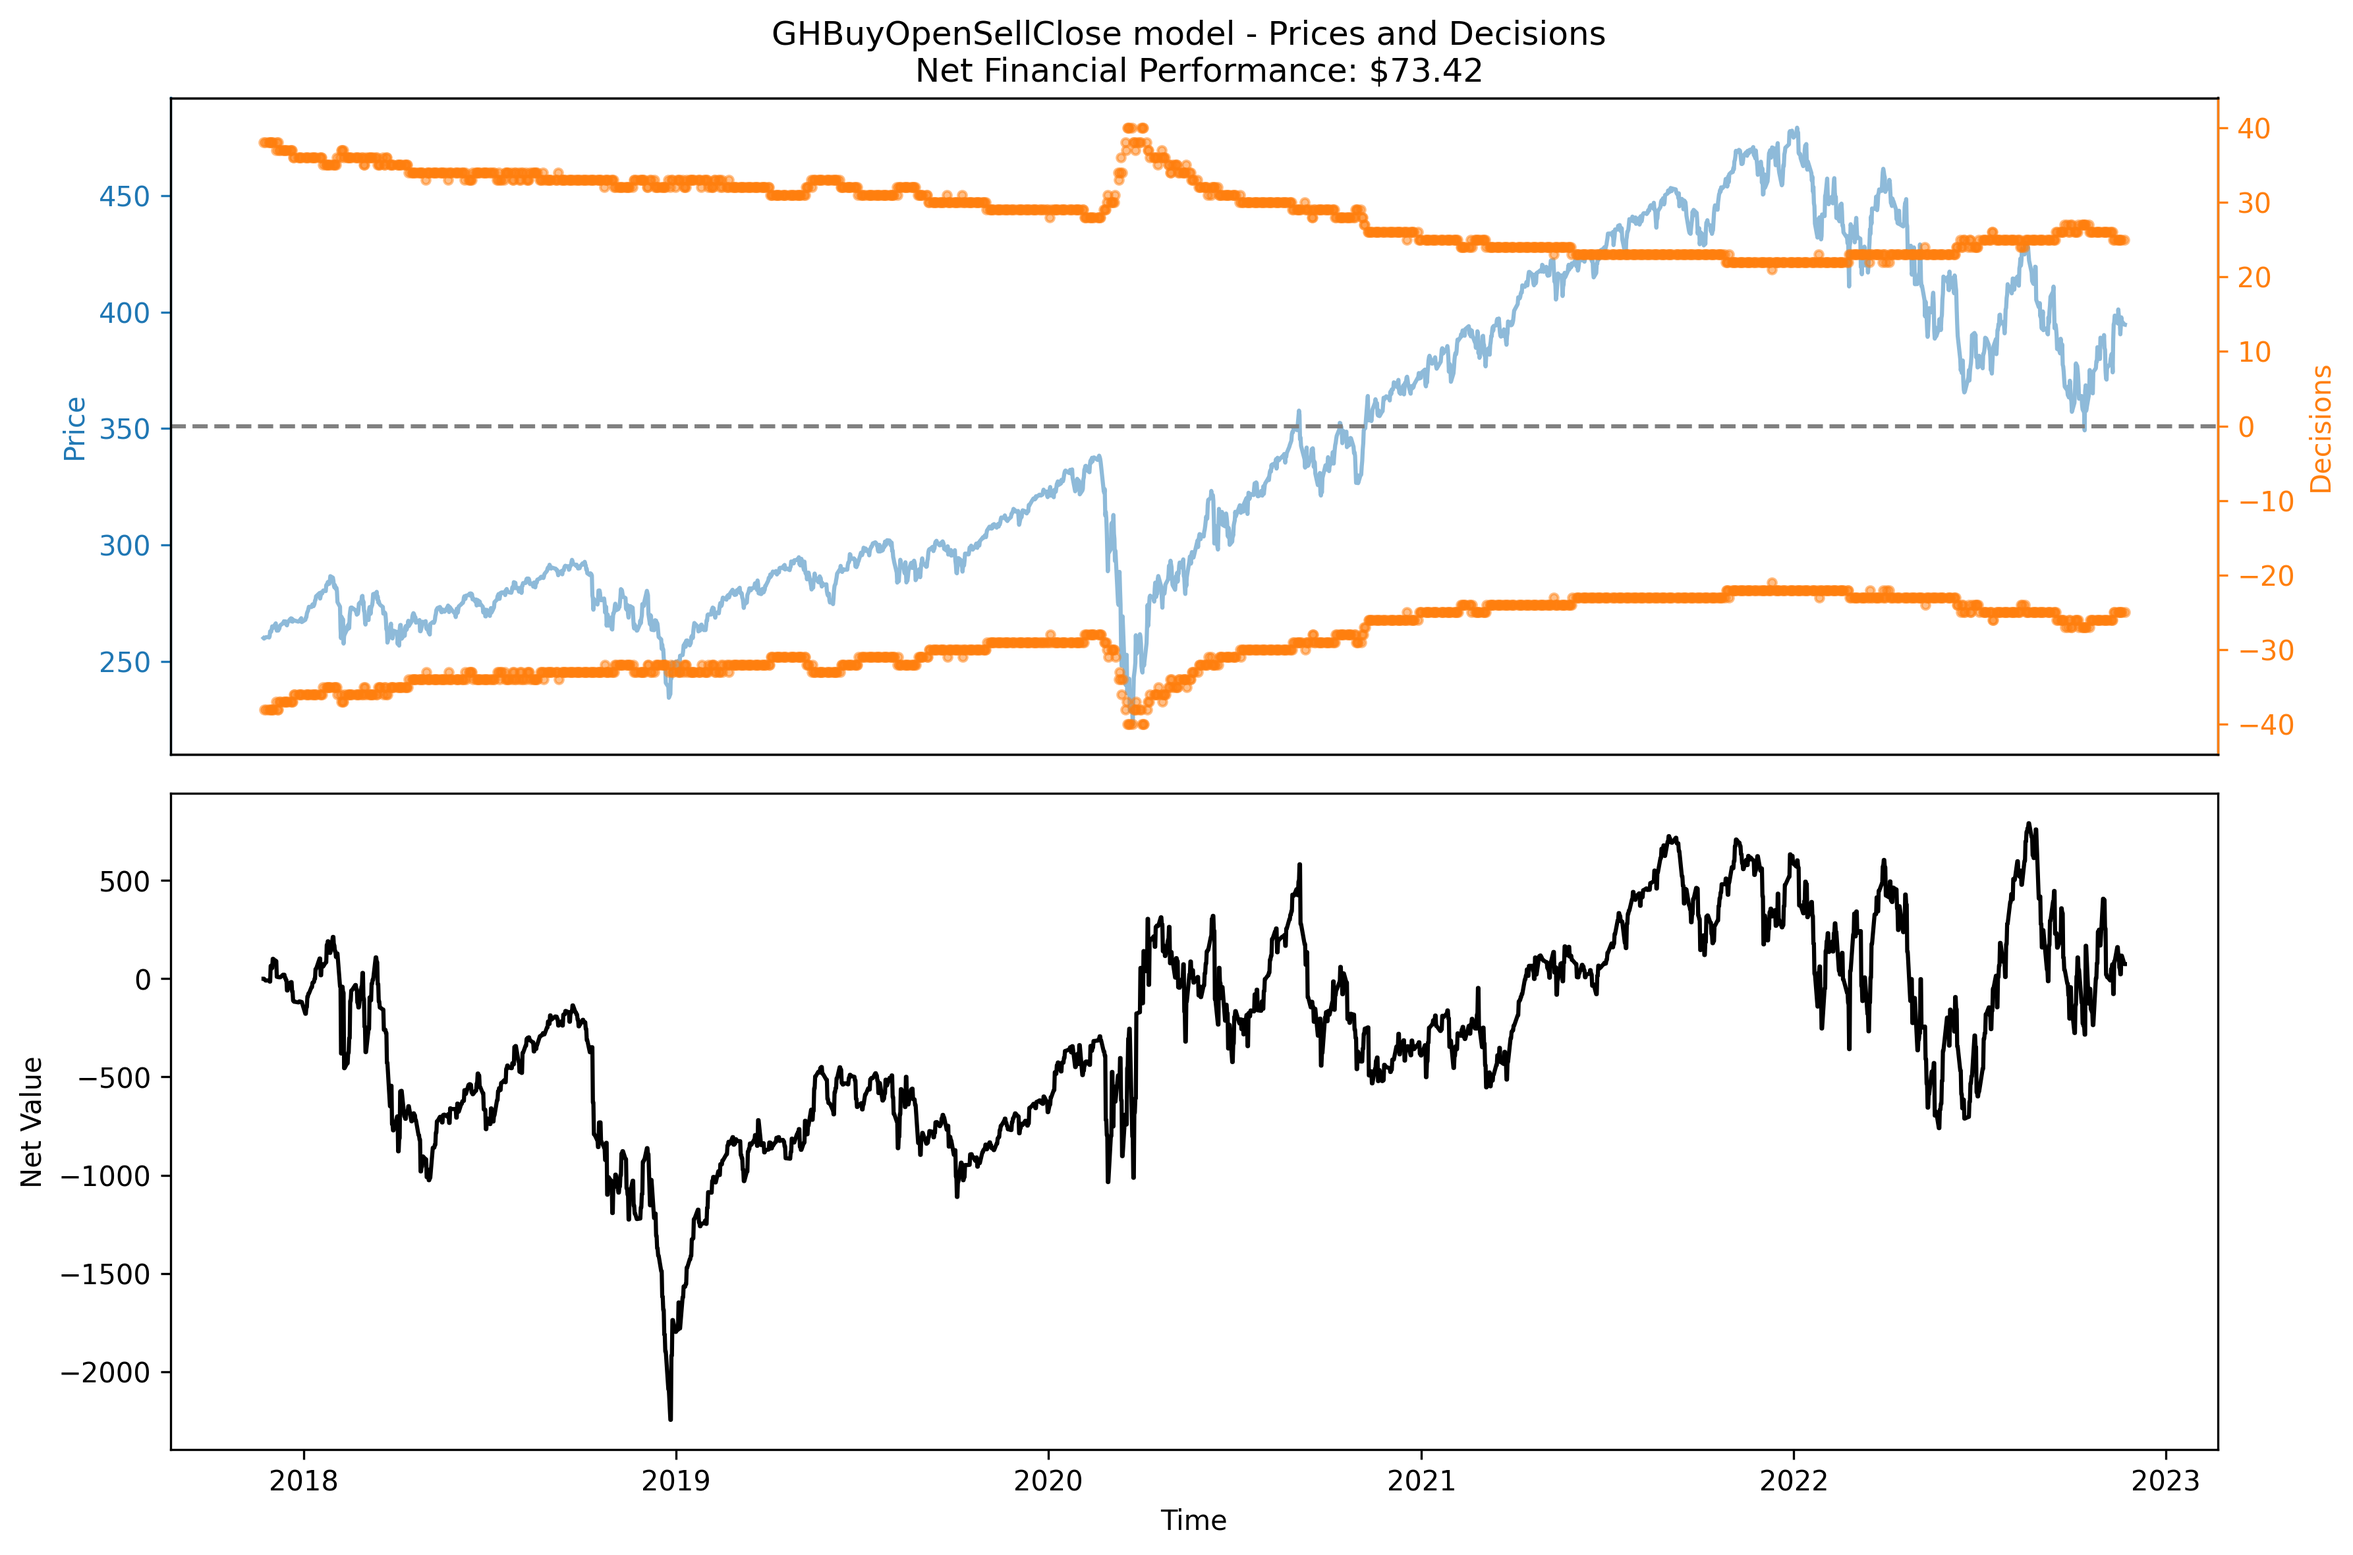
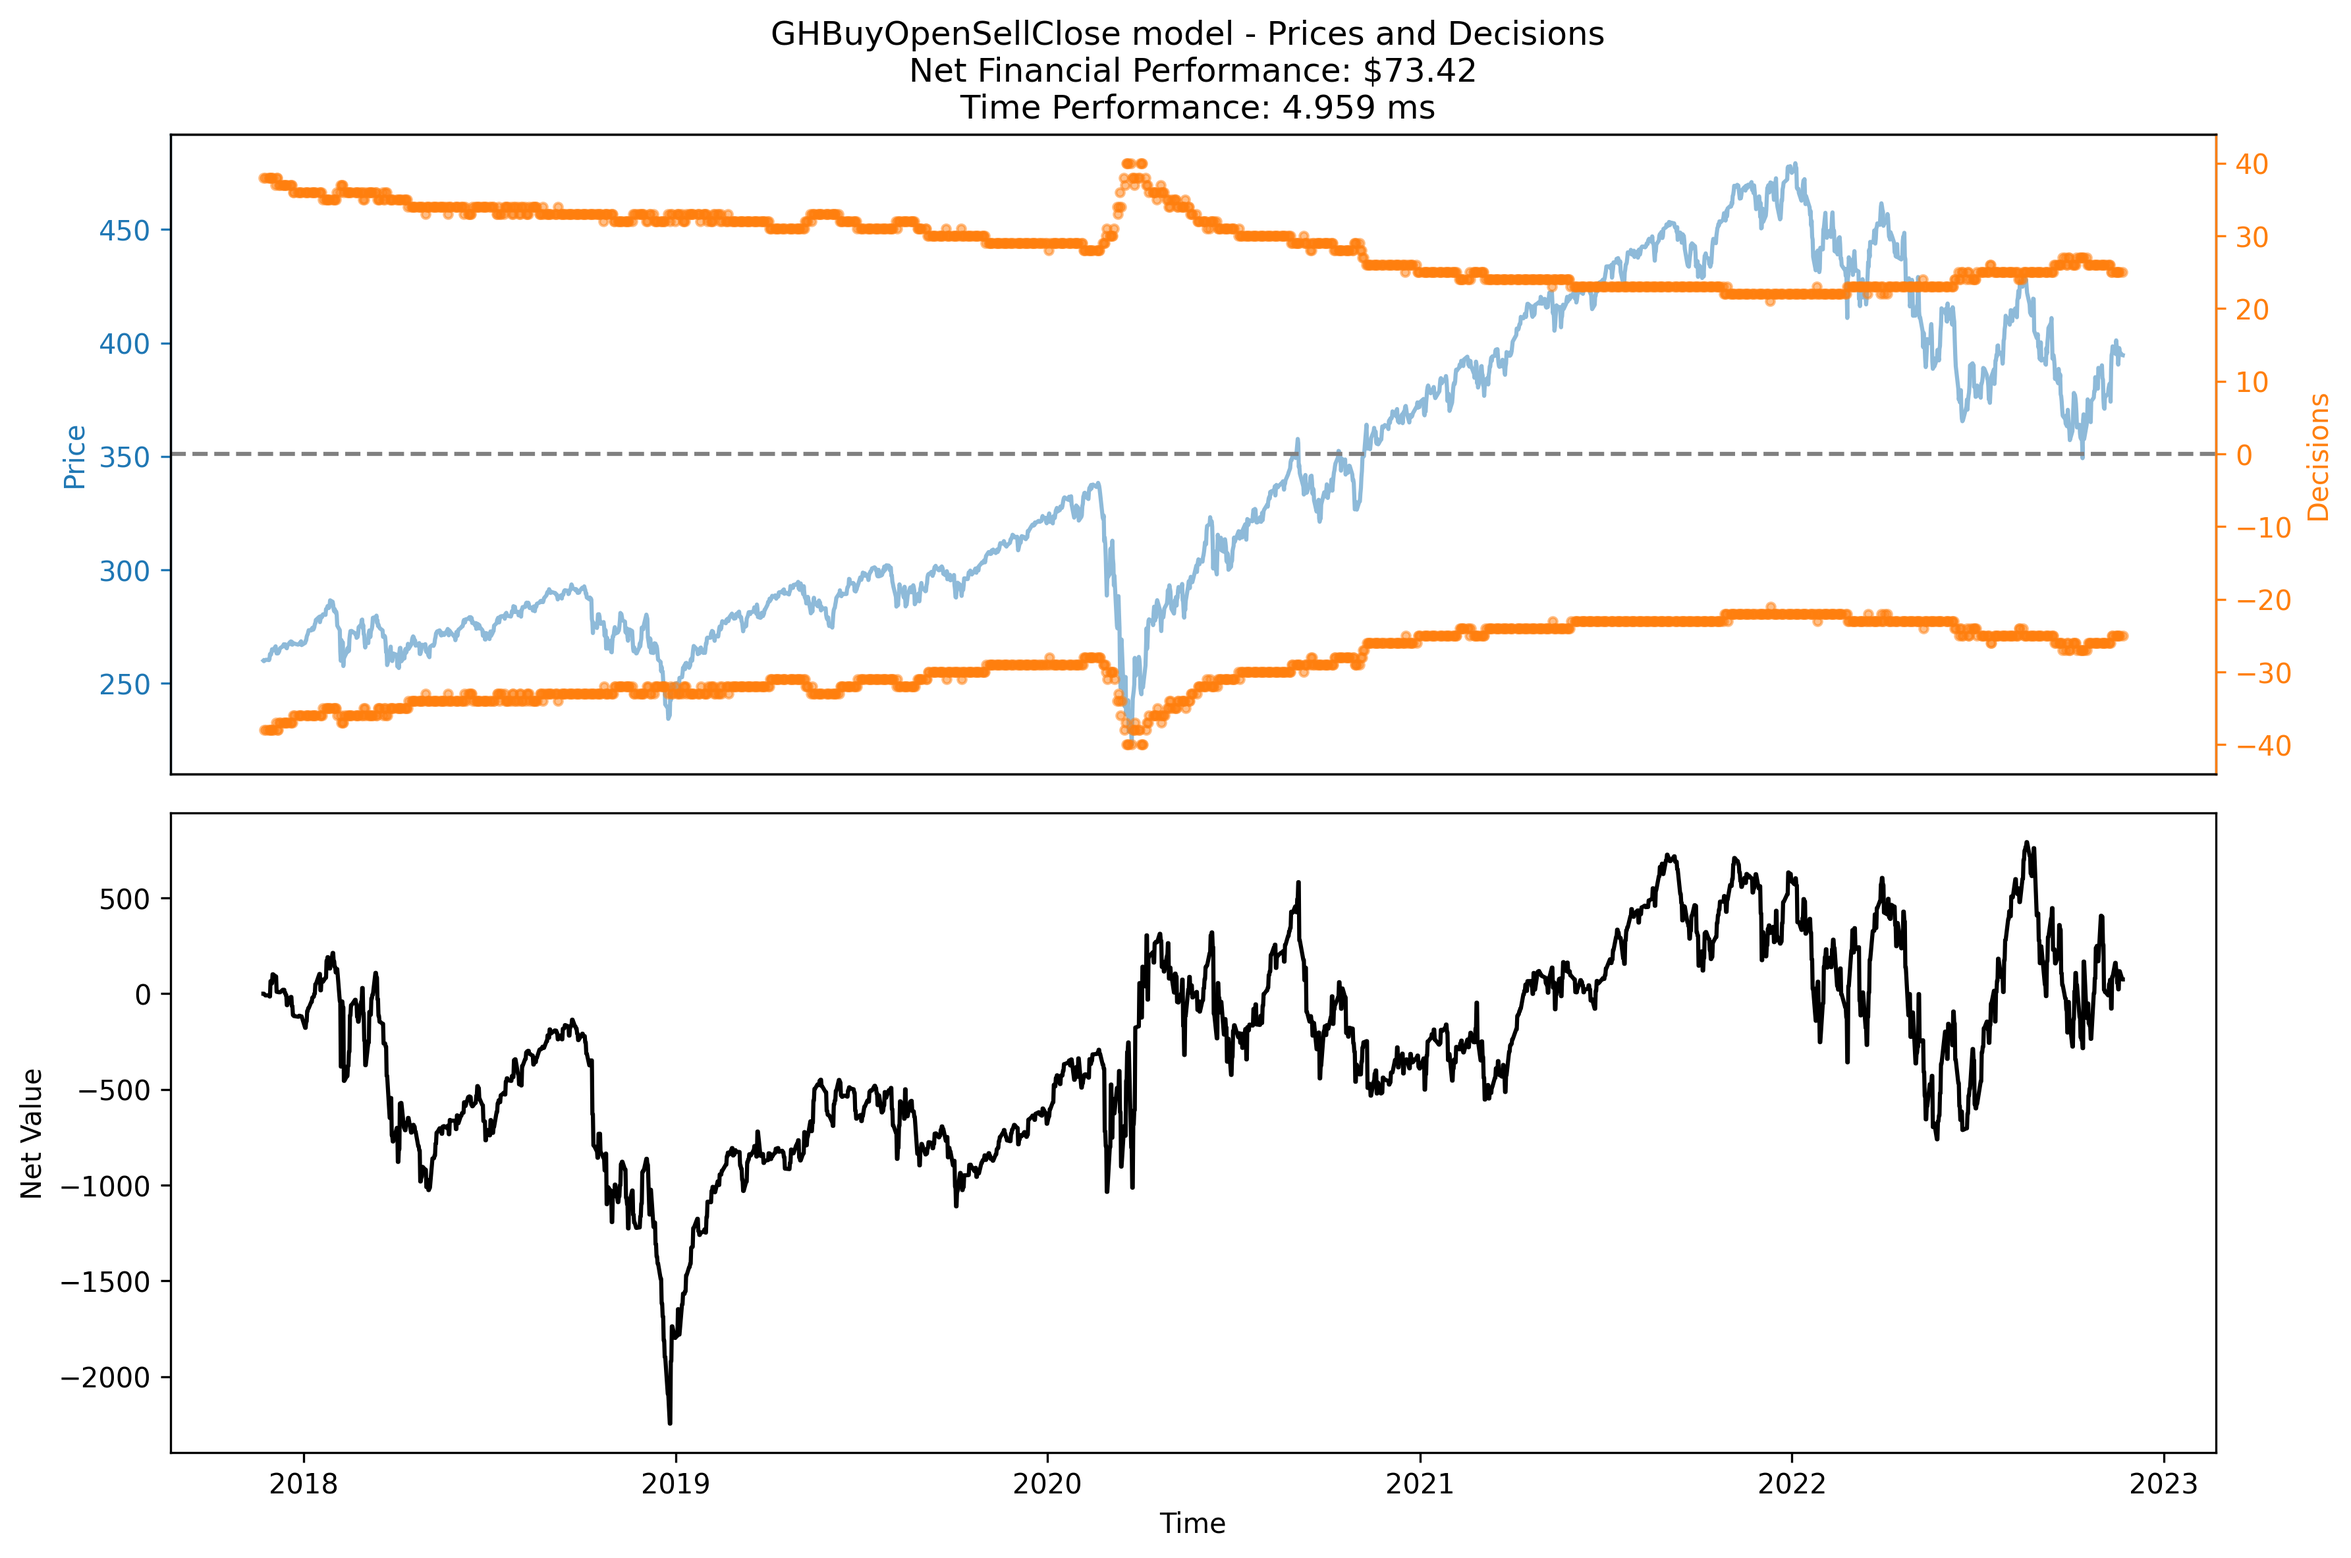
added model comparison rankings

diff --git a/src/evaluate_models.py b/src/evaluate_models.py
@@ -34,40 +34,48 @@ from util.jh_minmax import JHMinMax
 from util.jh_refmodels import JHOmniscientMinMax, JHRandom
 
 
-# ----- arg parsing
-parser = argparse.ArgumentParser(
-    prog = 'CS5800 trends - evaluate models',
-    description = 'Compare different trading models',
-    epilog = 'Text at the bottom of help',
-)
-parser.add_argument(
-    '--time-performance-iterations',
-    metavar='',
-    type=int,
-    default=0,
-    help='iterations per model for measuring time performance'
-)
-parser.add_argument(
-    '--include-plots',
-    type=bool,
-    default=False,
-    help='option to display plots of prices vs decisions'
-)
-parser.add_argument(
-    '--save-figs',
-    type=bool,
-    default=False,
-    help='option to save plots of prices vs decisions'
-)
-
-# - extract args
-args=parser.parse_args()
-time_perf_iter = args.time_performance_iterations
-include_plots = args.include_plots
-save_figs = args.save_figs
+# ----- constants
+savefig_kwargs = {
+    'dpi': 300,
+    'bbox_inches': 'tight',
+}
+comp_models = [model_type.__name__ for model_type in [
+    GHBuyCloseSellOpen,
+    JHMinMax,
+    JHOmniscientMinMax,
+    JHRandom,
+]]
 
 
 # ----- functions for plotting/etc
+def get_tab10():
+    tab10 = plt.get_cmap('tab10')(np.arange(10, dtype=int))
+    return [
+        '#%02x%02x%02x' % (round(r*255), round(g*255), round(b*255))\
+            for (r,g,b,a) in tab10
+    ]
+
+def get_palette(cols=comp_models):
+    '''
+    This is kind of a wonky function for consistently assigning colors to the diabetes dataset predictors.
+    
+    Parameters
+    ----------
+    cols : list of str, optional
+        DESCRIPTION. The default is ['bmi', 's5', 'bp', 's4', 's3', 's6', 's1', 'age', 's2', 'sex'].
+
+    Returns
+    -------
+    list
+        A list of colors in the order.
+
+    '''
+    tab10 = get_tab10()
+    per_col = {}
+    for i,col in enumerate(comp_models):
+        per_col[col] = tab10[i]
+    return [per_col[col] for col in cols]
+
 def evaluate_model(
         data,
         model_type,
@@ -175,8 +183,7 @@ def plot_decisions(
     if save_fig:
         plt.savefig(
             f'figs/price_vs_decisions_{model_name}.png',
-            dpi=300,
-            bbox_inches='tight'
+            **savefig_kwargs,
         )
     if show_plot:
         plt.show()
@@ -209,9 +216,6 @@ def plot_comp(
     # NOTE: e.g. to convert timestamp to numeric for linreg
     # fin_comp_df['time'] = fin_comp_df['time'].apply(lambda x: x.value)
     
-    tab10 = sns.color_palette("tab10")
-    (r, g, b) = tab10[0]
-    market_color = '#%02x%02x%02x' % (round(r*255), round(g*255), round(b*255))
     market_color = 'black'
     fig, [ax1, ax2] = plt.subplots(
         nrows=2,
@@ -219,13 +223,14 @@ def plot_comp(
         figsize=(12, 8),
         sharex=True,
     )
+    
     sns.lineplot(
         data=fin_comp_df,
         x='Time',
         y='Net Value',
         hue='Model',
         # palette=tab10[1:len(fin_comp_data)+1],
-        palette=tab10[:len(fin_comp_data)],
+        palette=get_palette(fin_comp_df['Model'].unique()),
         ax=ax1,
     )
     ax1.tick_params(
@@ -253,6 +258,7 @@ def plot_comp(
     #         ),
     #     )
     
+    # TODO: delete this; it's not fast nor particularly readable...
     if incl_sds:
         deltas = np.diff(one_dim)
         for i, delta_sds in enumerate(deltas / one_dim.std()):
@@ -271,20 +277,126 @@ def plot_comp(
     )
     ax2.set_xlabel('Time')
     ax2.set_ylabel('Price')
-    fig.suptitle('Financial Performance - A Few Models')
+    fig.suptitle(f'Financial Performance - {len(fin_comp_data)} Models')
     plt.tight_layout()
     plt.tight_layout()
     if save_fig:
         plt.savefig(
-            'figs/financial_comparison.png',
-            dpi=300,
-            bbox_inches='tight'
+            f'figs/financial_comparison_{len(fin_comp_data)}_models.png',
+            **savefig_kwargs,
         )
     if show_plot:
         plt.show()
     else:
         plt.close(fig)
-    plt.show()
+
+def plot_rank(
+        results,
+        time_perf_iter,
+        show_plot=True,
+        save_fig=False,
+):
+    _df = pd.DataFrame(
+        results[:,[0,2,3]],
+        columns=['Model', 'Net Value (USD)', 'Avg Time (ms)'],
+    )
+    _df = _df[_df['Model'].isin(comp_models)]
+    _df['const'] = 0
+    
+    fig, [ax1, ax2] = plt.subplots(
+        nrows=2,
+        ncols=1,
+        figsize=(12, 8),
+        sharex=False,
+    )
+    for (ax, asc, col, title) in [
+            (
+                ax1,
+                False,
+                'Net Value (USD)',
+                'Financial Performance',
+            ),
+            (
+                ax2,
+                True,
+                'Avg Time (ms)',
+                f'Time Performance - {time_perf_iter} Iterations',
+            ),
+    ]:
+        _df = _df.sort_values(by=col, ascending=asc)
+        sns.barplot(
+            data=_df,
+            x=col,
+            y='Model',
+            # hue='Model',
+            palette=get_palette(_df['Model'].unique()),
+            orient='h',
+            ax=ax,
+        )
+        ax.title.set_text(title)
+        ax.set_title(title, fontdict={'fontsize': 15 })
+        ax.set_ylabel('')
+        # plt.xticks(rotation = 90)
+        # ax1.set_xlabel('')
+        # ax1.tick_params(
+        #     axis='x',          # modify the x-axis
+        #     which='both',      # apply to both major and minor ticks
+        #     bottom=False,      # turn off ticks along the bottom edge
+        #     top=False,         # turn off ticks along the top edge
+        #     labelbottom=False  # turn off labels along the bottom edge
+        # )
+    plt.tight_layout()
+    plt.subplots_adjust(
+        left=None,
+        bottom=None,
+        right=None,
+        top=None,
+        wspace=None,
+        hspace=.33,
+    )
+
+    if save_fig:
+        plt.savefig(
+            'figs/model_rankings.png',
+            **savefig_kwargs,
+        )
+    if show_plot:
+        plt.show()
+    else:
+        plt.close(fig)
+
+
+# ----- arg parsing
+parser = argparse.ArgumentParser(
+    prog = 'CS5800 trends - evaluate models',
+    description = 'Compare different trading models',
+    epilog = 'Text at the bottom of help',
+)
+parser.add_argument(
+    '--time-performance-iterations',
+    metavar='',
+    type=int,
+    default=0,
+    help='iterations per model for measuring time performance'
+)
+parser.add_argument(
+    '--include-plots',
+    type=bool,
+    default=False,
+    help='option to display plots of prices vs decisions'
+)
+parser.add_argument(
+    '--save-figs',
+    type=bool,
+    default=False,
+    help='option to save plots of prices vs decisions'
+)
+
+# - extract args
+args=parser.parse_args()
+time_perf_iter = args.time_performance_iterations
+include_plots = args.include_plots
+save_figs = args.save_figs
 
 
 # ----- main execution
@@ -292,14 +404,9 @@ def main():
     # TODO delete these argument override
     # include_plots = True
     # save_figs = True
-    comp_models = [model_type.__name__ for model_type in [
-        GHBuyCloseSellOpen,
-        JHMinMax,
-        JHOmniscientMinMax,
-        JHRandom,
-    ]]
-    fin_comp_data = []
+    # time_perf_iter = 100
     
+    fin_comp_data = []
     results = []
     for model_type in [
             GHBuyCloseSellOpen,
@@ -317,15 +424,21 @@ def main():
         model_name = model_type.__name__
         # print(f'trying {model_name}')
         
-        # timeit*1000 to convert time to milliseconds
-        time_perf_ms = None\
-            if time_perf_iter == 0\
-            else timeit.timeit(
-                    lambda: evaluate_model(one_dim, model_type),
-                    number=time_perf_iter,
-                )*1000/time_perf_iter
+        # measure time performance
+        if time_perf_iter == 0:
+            time_perf_ms = None
+        else:
+            # timeit*1000 to convert time to milliseconds
+            time_perf_ms = timeit.timeit(
+                lambda: evaluate_model(one_dim, model_type),
+                number=time_perf_iter,
+            )*1000/time_perf_iter
+        
+        # measure financial performance
         model = evaluate_model(one_dim, model_type)
         fin_perf = model.get_net_value()
+        
+        # save results
         results.append([
             model_name,
             model,
@@ -338,19 +451,31 @@ def main():
                 'data': model.net_values,
             })
         
-        if include_plots:
+        # plot decisions and net value
+        if include_plots or save_figs:
             plot_decisions(
                 model,
                 time_perf_ms=time_perf_ms,
+                show_plot=include_plots,
                 save_fig=save_figs,
             )
     
     results = np.array(results)
     
-    if include_plots:
+    # plot performance comparisons
+    if include_plots or save_figs:
+        # financial trends
         plot_comp(
             fin_comp_data,
-            incl_sds=False,
+            show_plot=include_plots,
+            save_fig=save_figs,
+        )
+        
+        # performance ranking
+        plot_rank(
+            results,
+            time_perf_iter,
+            show_plot=include_plots,
             save_fig=save_figs,
         )
     

diff --git a/src/util/jh_minmax.py b/src/util/jh_minmax.py
@@ -29,6 +29,8 @@ class JHMinMax(Model):
         self.avg_price = None
         self.min = None
         self.max = None
+        self.imin = None
+        self.imax = None
         self.vals = deque(maxlen=window) if window else None
     
     def decide(self, snapshot):
@@ -42,11 +44,12 @@ class JHMinMax(Model):
                     self.min = None
                 if self.vals[0] == self.max:
                     self.max = None
-                for i in range(1, len(self.vals)):
-                    if self.min is None or self.min > self.vals[i]:
-                        self.min = self.vals[i]
-                    if self.max is None or self.max < self.vals[i]:
-                        self.max = self.vals[i]
+                if self.min is None or self.max is None:
+                    for i in range(1, len(self.vals)):
+                        if self.min is None or self.min > self.vals[i]:
+                            self.min = self.vals[i]
+                        if self.max is None or self.max < self.vals[i]:
+                            self.max = self.vals[i]
             
             # append to vals, pushing vals[0] out of window
             self.vals.append(price)

diff --git a/simple.md b/simple.md
@@ -55,4 +55,6 @@ Since we are only working with a single time series, all of our models are indir
 
 ## Comparing Models
 
-<img src="figs/financial_comparison.png" width=900>
+<img src="figs/financial_comparison_4_models.png" width=900>
+
+<img src="figs/model_rankings.png" width=900>
